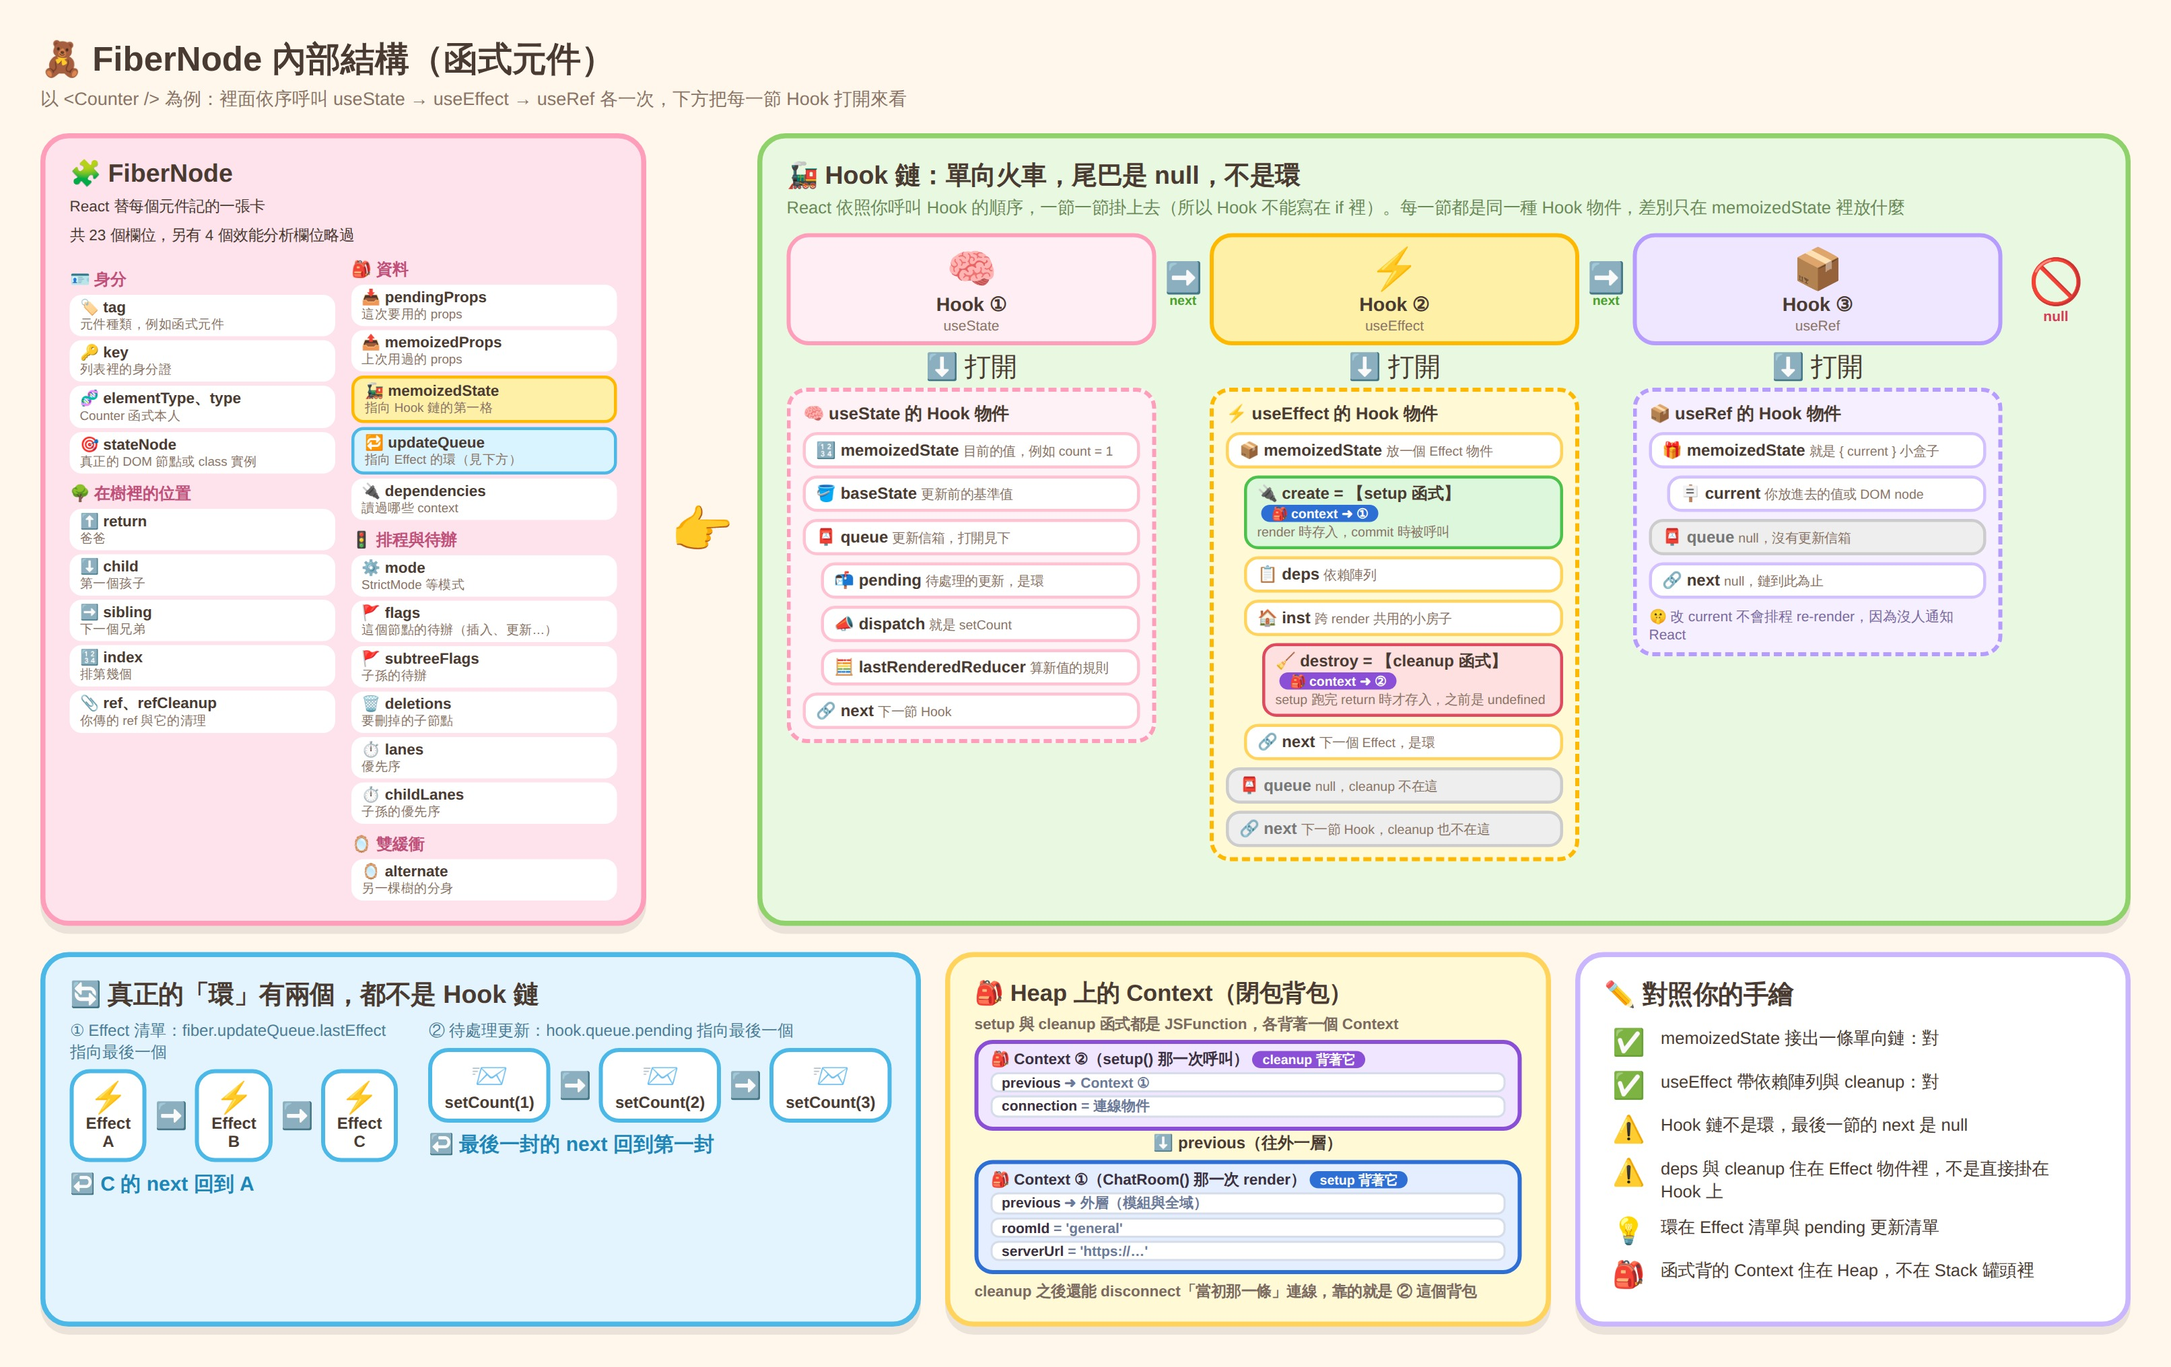
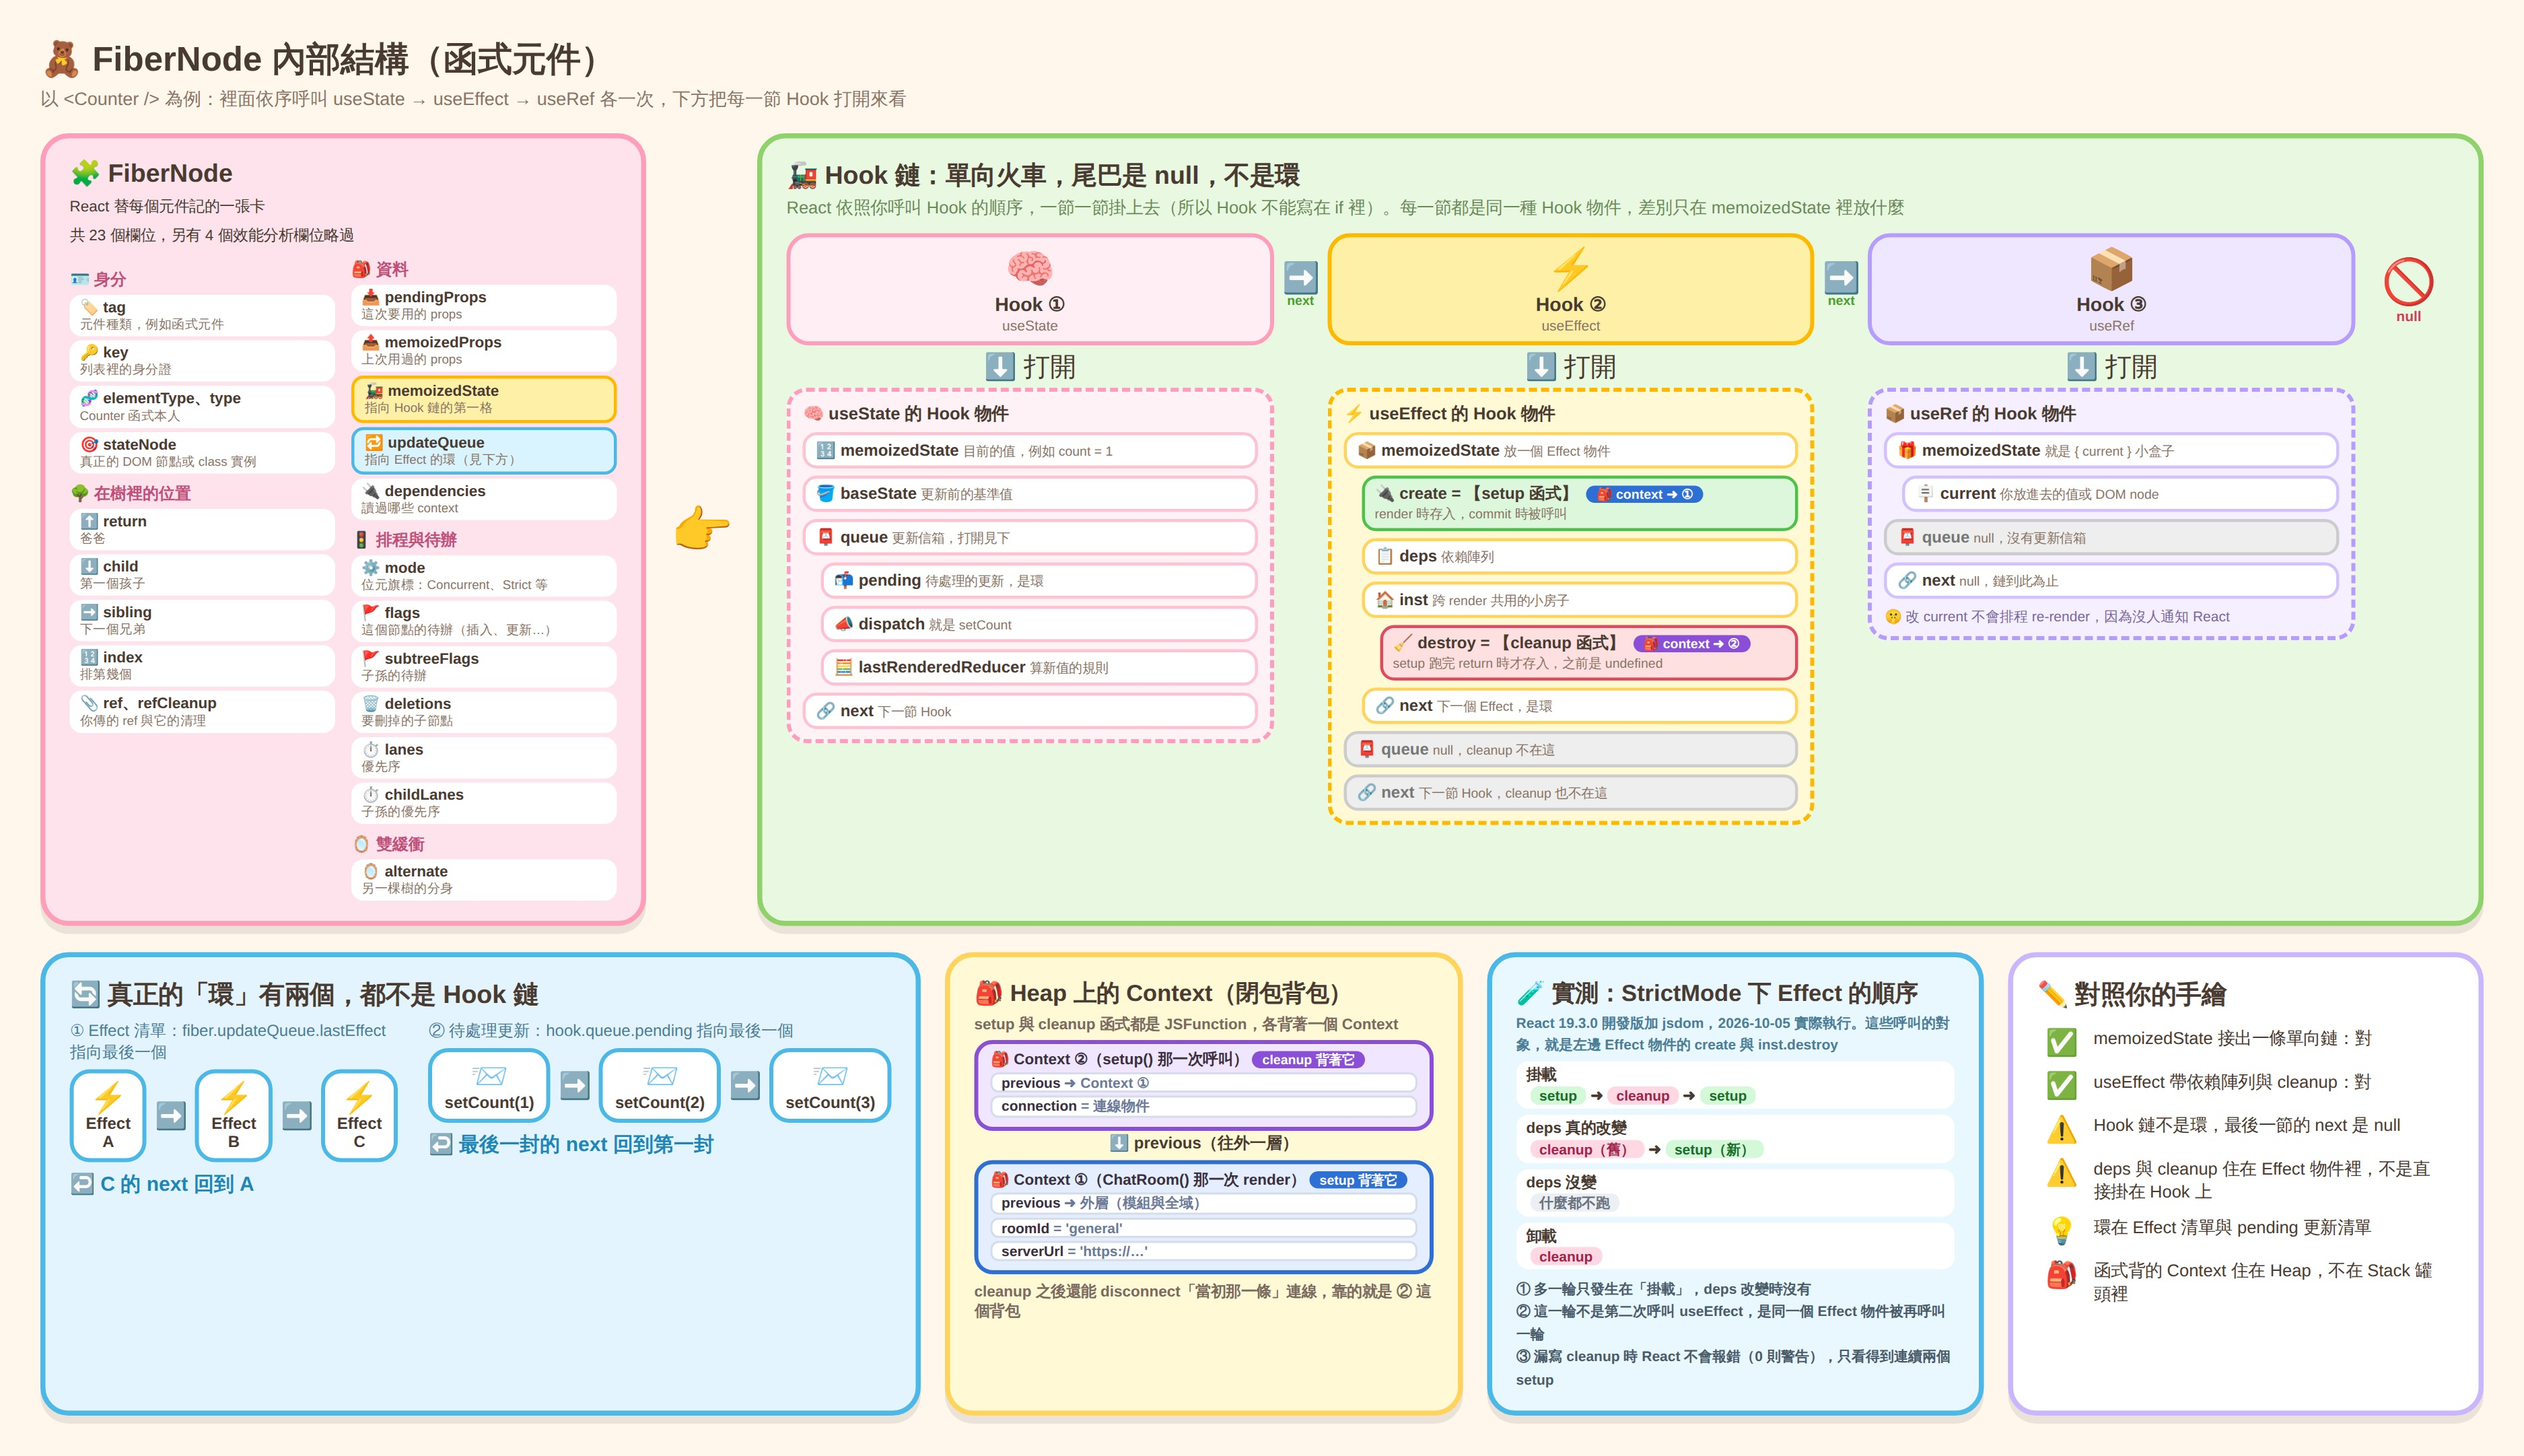
docs: Fiber 圖加 StrictMode 實測卡，03 更正 commitDoubleInvokeEffectsInDEV 的觸發條件並補 mode、concurrent root、fiber 名詞

diff --git a/frontend-docs/react/FiberNode內部結構-可愛圖.html b/frontend-docs/react/FiberNode內部結構-可愛圖.html
@@ -6,7 +6,7 @@
 <style>
 *{box-sizing:border-box}
 body{margin:0;background:#fff7ec;font-family:"Noto Sans TC","PingFang TC","Microsoft JhengHei",sans-serif;color:#4a3b32}
-#art{width:2150px;padding:36px 40px 40px;background:#fff7ec}
+#art{width:2500px;padding:36px 40px 40px;background:#fff7ec}
 h1{margin:0 0 4px;font-size:34px}
 .sub{font-size:18px;color:#8a7466;margin-bottom:22px}
 .row{display:flex;gap:24px;align-items:stretch}
@@ -77,6 +77,14 @@ td:first-child{width:44px;font-size:26px}
 .sl{background:#fff;border-radius:8px;padding:0 9px;margin:3px 0;font-weight:600;font-size:14px;border:2px solid #d5dcea}
 .sl em{font-style:normal;color:#6b7a99}
 .pv{text-align:center;font-size:16px;font-weight:800;margin:2px 0}
+.smbox{flex:1.05;background:#e9f7ff;border-color:#4cb8e8}
+.smbox h2{margin:0 0 4px;font-size:23px}
+.smcap{font-size:14px;color:#4c7d96;font-weight:600;margin-bottom:6px;line-height:1.5}
+.smr{display:flex;flex-direction:column;background:#fff;border-radius:12px;padding:4px 10px;margin:6px 0;font-size:15px;font-weight:700}
+.smr span{margin-top:2px}
+.tk{font-style:normal;border-radius:8px;padding:1px 9px;font-size:14px;font-weight:800;margin:0 4px}
+.tk.s{background:#d3f9d8;color:#1b6e2c}.tk.c{background:#ffd8e4;color:#a1244a}.tk.n{background:#eceff4;color:#6b7280}
+.smnote{font-size:14px;line-height:1.6;color:#4a5b6a;font-weight:600;margin-top:8px}
 </style>
 </head>
 <body>
@@ -87,7 +95,7 @@ td:first-child{width:44px;font-size:26px}
   <div class="row">
     <div class="card fiber">
 <h2>🧩 FiberNode<br><small style="font-size:15px;font-weight:400">React 替每個元件記的一張卡<br>共 23 個欄位，另有 4 個效能分析欄位略過</small></h2>
-<div class="cols"><div class="gb"><div class="grp">🪪 身分</div><div class="f2 "><b>🏷 tag</b><small>元件種類，例如函式元件</small></div><div class="f2 "><b>🔑 key</b><small>列表裡的身分證</small></div><div class="f2 "><b>🧬 elementType、type</b><small>Counter 函式本人</small></div><div class="f2 "><b>🎯 stateNode</b><small>真正的 DOM 節點或 class 實例</small></div></div><div class="gb"><div class="grp">🌳 在樹裡的位置</div><div class="f2 "><b>⬆ return</b><small>爸爸</small></div><div class="f2 "><b>⬇ child</b><small>第一個孩子</small></div><div class="f2 "><b>➡ sibling</b><small>下一個兄弟</small></div><div class="f2 "><b>🔢 index</b><small>排第幾個</small></div><div class="f2 "><b>📎 ref、refCleanup</b><small>你傳的 ref 與它的清理</small></div></div><div class="gb"><div class="grp">🎒 資料</div><div class="f2 "><b>📥 pendingProps</b><small>這次要用的 props</small></div><div class="f2 "><b>📤 memoizedProps</b><small>上次用過的 props</small></div><div class="f2 hot"><b>🚂 memoizedState</b><small>指向 Hook 鏈的第一格</small></div><div class="f2 ring"><b>🔁 updateQueue</b><small>指向 Effect 的環（見下方）</small></div><div class="f2 "><b>🔌 dependencies</b><small>讀過哪些 context</small></div></div><div class="gb"><div class="grp">🚦 排程與待辦</div><div class="f2 "><b>⚙ mode</b><small>StrictMode 等模式</small></div><div class="f2 "><b>🚩 flags</b><small>這個節點的待辦（插入、更新…）</small></div><div class="f2 "><b>🚩 subtreeFlags</b><small>子孫的待辦</small></div><div class="f2 "><b>🗑 deletions</b><small>要刪掉的子節點</small></div><div class="f2 "><b>⏱ lanes</b><small>優先序</small></div><div class="f2 "><b>⏱ childLanes</b><small>子孫的優先序</small></div></div><div class="gb"><div class="grp">🪞 雙緩衝</div><div class="f2 "><b>🪞 alternate</b><small>另一棵樹的分身</small></div></div></div>
+<div class="cols"><div class="gb"><div class="grp">🪪 身分</div><div class="f2 "><b>🏷 tag</b><small>元件種類，例如函式元件</small></div><div class="f2 "><b>🔑 key</b><small>列表裡的身分證</small></div><div class="f2 "><b>🧬 elementType、type</b><small>Counter 函式本人</small></div><div class="f2 "><b>🎯 stateNode</b><small>真正的 DOM 節點或 class 實例</small></div></div><div class="gb"><div class="grp">🌳 在樹裡的位置</div><div class="f2 "><b>⬆ return</b><small>爸爸</small></div><div class="f2 "><b>⬇ child</b><small>第一個孩子</small></div><div class="f2 "><b>➡ sibling</b><small>下一個兄弟</small></div><div class="f2 "><b>🔢 index</b><small>排第幾個</small></div><div class="f2 "><b>📎 ref、refCleanup</b><small>你傳的 ref 與它的清理</small></div></div><div class="gb"><div class="grp">🎒 資料</div><div class="f2 "><b>📥 pendingProps</b><small>這次要用的 props</small></div><div class="f2 "><b>📤 memoizedProps</b><small>上次用過的 props</small></div><div class="f2 hot"><b>🚂 memoizedState</b><small>指向 Hook 鏈的第一格</small></div><div class="f2 ring"><b>🔁 updateQueue</b><small>指向 Effect 的環（見下方）</small></div><div class="f2 "><b>🔌 dependencies</b><small>讀過哪些 context</small></div></div><div class="gb"><div class="grp">🚦 排程與待辦</div><div class="f2 "><b>⚙ mode</b><small>位元旗標：Concurrent、Strict 等</small></div><div class="f2 "><b>🚩 flags</b><small>這個節點的待辦（插入、更新…）</small></div><div class="f2 "><b>🚩 subtreeFlags</b><small>子孫的待辦</small></div><div class="f2 "><b>🗑 deletions</b><small>要刪掉的子節點</small></div><div class="f2 "><b>⏱ lanes</b><small>優先序</small></div><div class="f2 "><b>⏱ childLanes</b><small>子孫的優先序</small></div></div><div class="gb"><div class="grp">🪞 雙緩衝</div><div class="f2 "><b>🪞 alternate</b><small>另一棵樹的分身</small></div></div></div>
 </div>
 
     <div class="arrow">👉</div>
@@ -182,6 +190,15 @@ td:first-child{width:44px;font-size:26px}
         <div class="sl">serverUrl <em>= 'https://…'</em></div>
       </div>
       <div class="cxcap" style="margin-top:8px">cleanup 之後還能 disconnect「當初那一條」連線，靠的就是 ② 這個背包</div>
+    </div>
+    <div class="card smbox">
+      <h2>🧪 實測：StrictMode 下 Effect 的順序</h2>
+      <div class="smcap">React 19.3.0 開發版加 jsdom，2026-10-05 實際執行。這些呼叫的對象，就是左邊 Effect 物件的 create 與 inst.destroy</div>
+      <div class="smr"><b>掛載</b><span><i class="tk s">setup</i>➜<i class="tk c">cleanup</i>➜<i class="tk s">setup</i></span></div>
+      <div class="smr"><b>deps 真的改變</b><span><i class="tk c">cleanup（舊）</i>➜<i class="tk s">setup（新）</i></span></div>
+      <div class="smr"><b>deps 沒變</b><span><i class="tk n">什麼都不跑</i></span></div>
+      <div class="smr"><b>卸載</b><span><i class="tk c">cleanup</i></span></div>
+      <div class="smnote">① 多一輪只發生在「掛載」，deps 改變時沒有<br>② 這一輪不是第二次呼叫 useEffect，是同一個 Effect 物件被再呼叫一輪<br>③ 漏寫 cleanup 時 React 不會報錯（0 則警告），只看得到連續兩個 setup</div>
     </div>
     <div class="card verdict">
       <h2>✏ 對照你的手繪</h2>

diff --git a/frontend-docs/react/useState底層-Fiber-Tree-memoizedState與過期閉包.md b/frontend-docs/react/useState底層-Fiber-Tree-memoizedState與過期閉包.md
@@ -88,7 +88,7 @@ fiberNode = {
 ![[FiberNode內部結構_Hook單向鏈與Effect環_2026-10-04.jpg]]
 
 上圖的原始檔是同資料夾的 `FiberNode內部結構-可愛圖.html`。
-圖左邊那張卡列出 `FiberNode` 全部 23 個欄位（另有 4 個效能分析欄位 `actualDuration` 等略過），依據是原始碼 `ReactFiber.js` 的 `FiberNode` 建構函式，分成身分、樹位置、資料、排程與待辦、雙緩衝五組。圖底部另有一張 Context 背包卡，說明 setup 與 cleanup 兩個函式各背著 Heap 上的哪個 Context，細節見 [[02-useEffect的setup清理函式-return一個函式而不是執行它]] 的 (e)。
+圖左邊那張卡列出 `FiberNode` 全部 23 個欄位（另有 4 個效能分析欄位 `actualDuration` 等略過），依據是原始碼 `ReactFiber.js` 的 `FiberNode` 建構函式，分成身分、樹位置、資料、排程與待辦、雙緩衝五組。圖底部另有一張 Context 背包卡，說明 setup 與 cleanup 兩個函式各背著 Heap 上的哪個 Context，細節見 [[02-useEffect的setup清理函式-return一個函式而不是執行它]] 的 (e)。旁邊還有一張 StrictMode 實測卡，列出開發模式下 `create` 與 `inst.destroy` 被呼叫的真實順序，詳見 [[03-useEffect將元件同步到外部系統-Web-API與DOM]] 的 d。
 常有人把這條鏈畫成「環」，其實有兩條不同的鏈，形狀不一樣：
 
 | 鏈 | 從哪裡出發 | 形狀 | 依據（`ReactFiberHooks.js`） |
